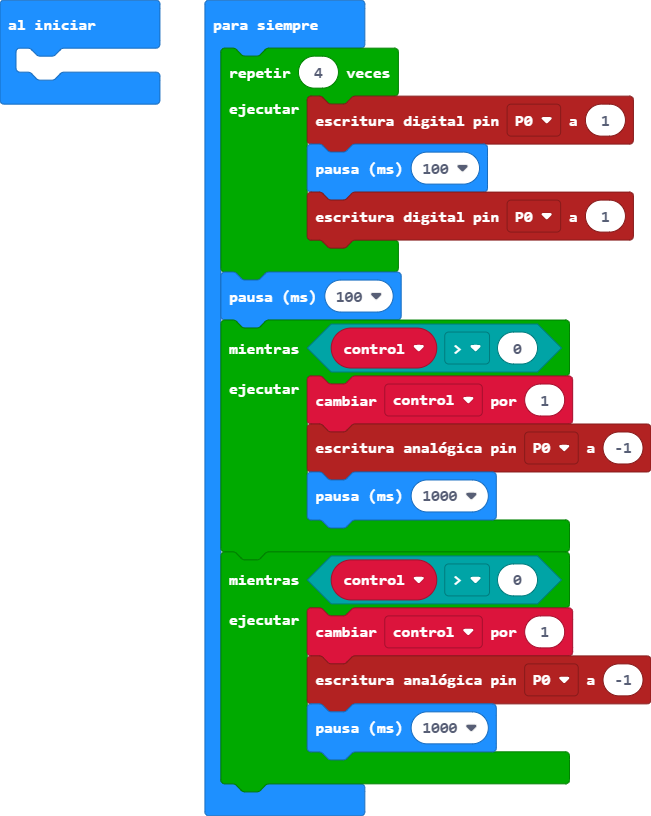
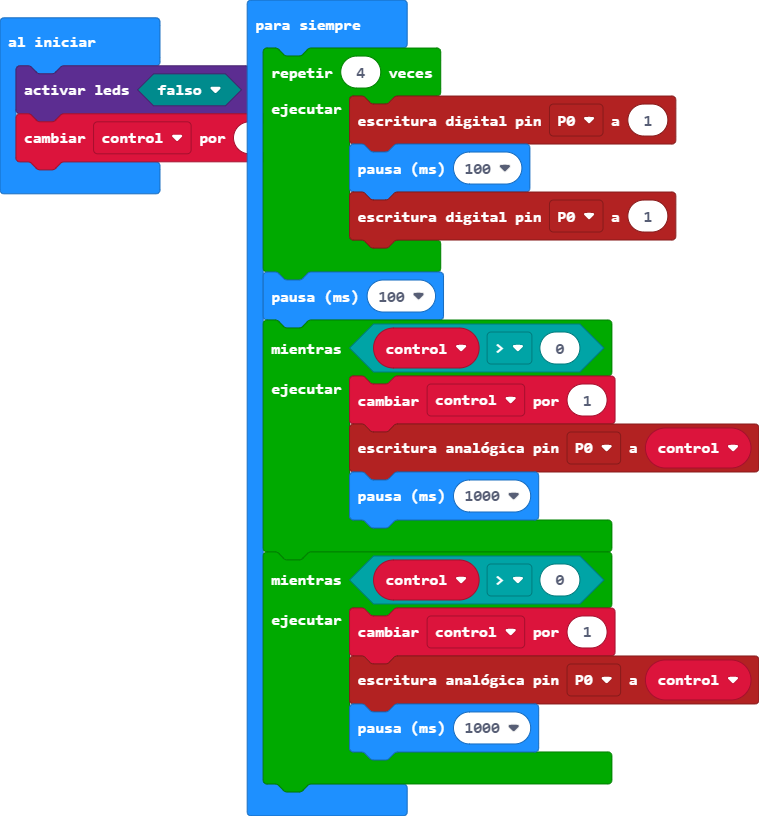
Actualizar main.blocks, main.ts

Changed region(s): [[0.0, 0.0, 1.0, 1.0], [0.7988, 0.9191, 0.8909, 0.9804]]

diff --git a/main.ts b/main.ts
@@ -1,4 +1,6 @@
 let control2 = 0
+led.enable(false)
+control2 += 1
 basic.forever(function () {
     for (let index = 0; index < 4; index++) {
         pins.digitalWritePin(DigitalPin.P0, 1)
@@ -8,12 +10,12 @@ basic.forever(function () {
     basic.pause(100)
     while (control2 > 0) {
         control2 += 1
-        pins.analogWritePin(AnalogPin.P0, -1)
+        pins.analogWritePin(AnalogPin.P0, control2)
         basic.pause(1000)
     }
     while (control2 > 0) {
         control2 += 1
-        pins.analogWritePin(AnalogPin.P0, -1)
+        pins.analogWritePin(AnalogPin.P0, control2)
         basic.pause(1000)
     }
 })
